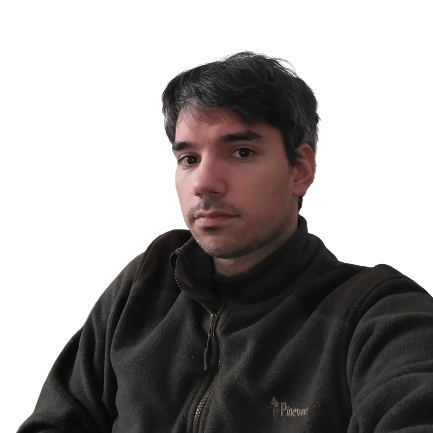
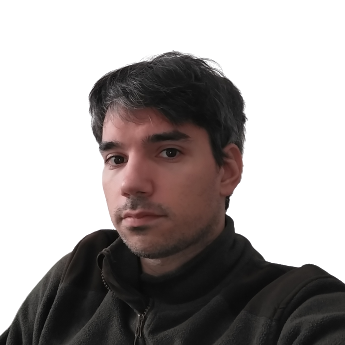
added animation

diff --git a/index.html b/index.html
@@ -15,11 +15,11 @@
     
     <section class = "left-side-box"><article>
 
-        <div class = "image-container"><img src="assets/image.png" class = "profile-image"></div>
-        <div onmouseover="revealText()" onmouseleave="hideText()""><h1>SIMON NORENIUS</h1></div>
+        <div class = "image-container"><img src="assets/image.png" class = "profile-image" onmouseover="revealText()"></div>
+        <div><h1>SIMON NORENIUS</h1></div>
         <h2>WEBBUTVECKLARE</h2>
         <hr>
-        <div id = "hidden" style="display:none">
+        <div class = "invisible" id = "left">
         <h3>PERSONLIG PROFIL</h3>
         <p>Jag är för närvarande en vid Lexicon yrkesstuderande frontendprogrammerare
             med långtgående intresse för webbdesign och systemutveckling
@@ -38,7 +38,7 @@
 
     </article></section>
 
-    <section class = "right-side-box">
+    <section class = "right-side-box" id = "right">
         <h4>UTBILDNING</h4>
         <h5>Stockholms Universitet, Institutionen för data- och systemvetenskap (DSV), Södertörns Högskola</h5>
         <h6>Fil. mag. Filosofi, 2018</h6>
@@ -63,7 +63,6 @@
     </section>
 
     <div class = "blackground"></div>
-
 
 </body>
 </html>

diff --git a/style.css b/style.css
@@ -66,7 +66,6 @@ hr{
     border-radius: 5px;
 }
 
-
 .main-box{
     display: grid;
     grid-template-columns: 1fr 1fr 2fr 1fr;
@@ -79,6 +78,13 @@ hr{
     padding-bottom: 1rem;
 }
 
+.invisible{
+    opacity: 0;
+    filter: blur(4px);
+    transform: translateX(-100%);
+    transition: all 1s;
+}
+
 .image-container{
     display: flex;
     justify-content: center;
@@ -86,8 +92,10 @@ hr{
 }
 
 .profile-image{
+    filter: grayscale(100%);
+    background-color: rgb(92, 92, 193);
     border-radius: 50%;
-    border: 4px solid darkblue;
+    border: 4px solid rgb(55, 55, 126);
     width: 220px;
     padding-bottom: 2rem;
     transition : all 0.5s ease-out;
@@ -96,7 +104,7 @@ hr{
 
 .profile-image:hover{
     transform: scale(1.1);
-    
+    filter: grayscale(0%);
 }
 
 .right-side-box{
@@ -104,12 +112,18 @@ hr{
     padding-right: 8rem;
     padding-top: 5rem;
     padding-bottom: 1rem;
+    opacity: 0;
+    filter: blur(4px);
+    transform: translateX(100%);
+    transition: all 1s;
 }
 
 .right-side-box > p{
     color: #675E69;
 }
 
-#hidden{
-    transition: 1s;
+.visibility{
+    opacity: 1;
+    filter: blur(0);
+    transform: translateX(0);
 }

diff --git a/java.js b/java.js
@@ -1,8 +1,16 @@
 function revealText(){
-    document.getElementById("hidden").style.display = "block";
-    
+    document.getElementById("left").classList.add("visibility");
+    document.getElementById("right").classList.add("visibility");
 }
 
-function hideText(){
-    document.getElementById("hidden").style.display = "none";
-}
+// transform: translateX(-100%);
+// transform: translateX(0);
+// filter: blur(8px);
+
+// getElementsByClassName("name") alla element med en viss klass
+
+// let btn = document.getElementById('btn');
+// btn.addEventListener('click', function(event) { detta händer varje gång användaren klickar på knappen
+// });
+
+// element.style.backgroundColor = 'hotpink';
